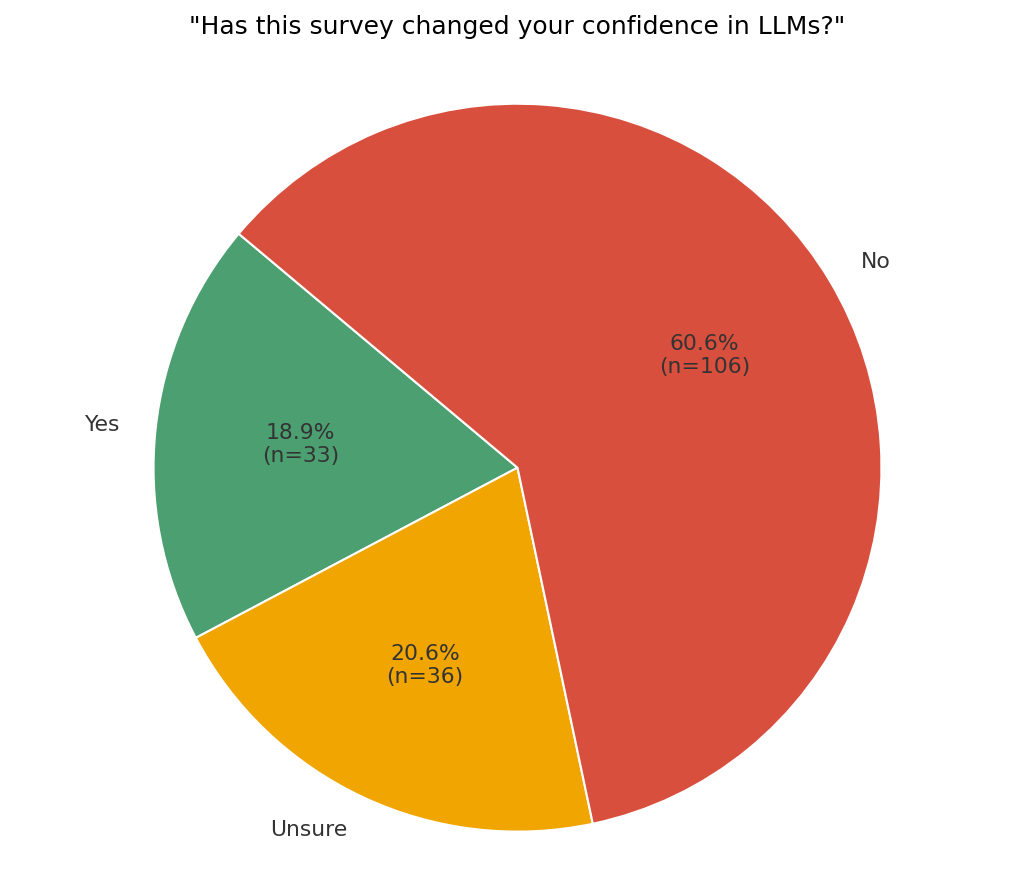
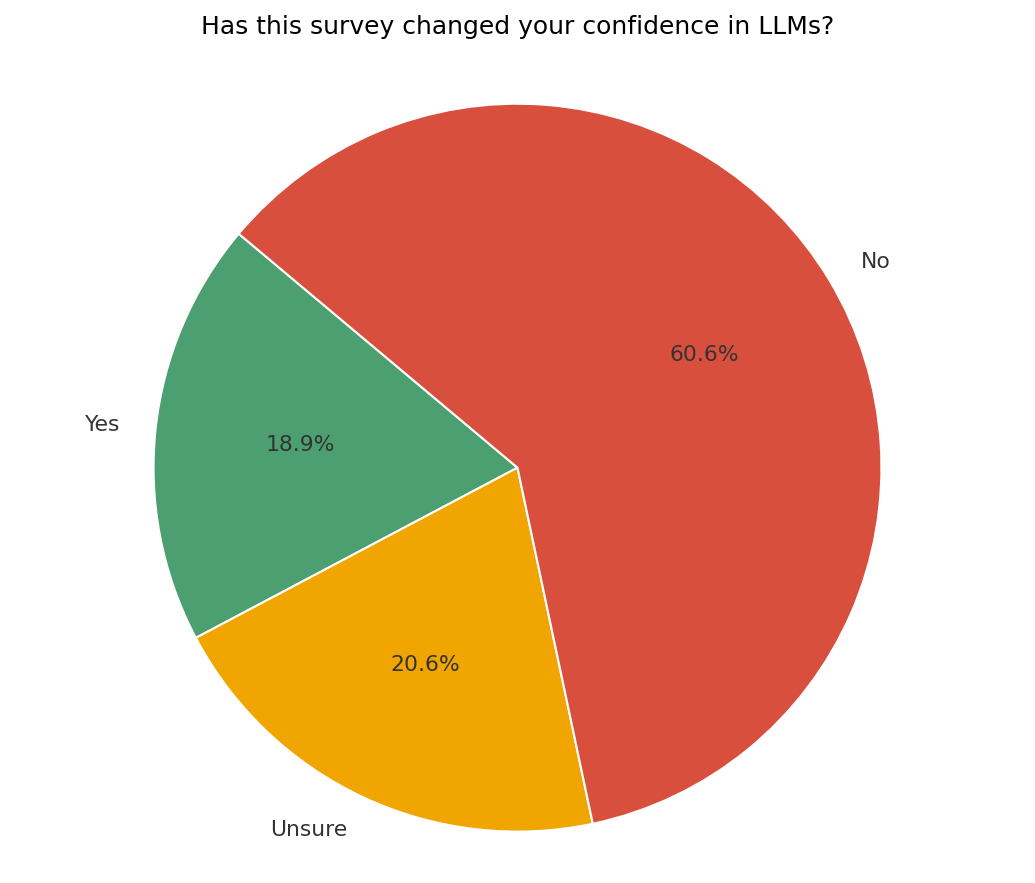
adjust trust-changed diagram

diff --git a/diagrams/trust_changed.py b/diagrams/trust_changed.py
@@ -47,14 +47,14 @@ wedges, texts, autotexts = ax.pie(
     counts,
     labels=order,
     colors=[colors[c] for c in order],
-    autopct=lambda pct: f"{pct:.1f}%\n(n={int(round(pct/100*n_valid))})",
+    autopct=lambda pct: f"{pct:.1f}%",
     startangle=140,
     wedgeprops={'edgecolor': 'white', 'linewidth': 1},
     textprops={'fontsize': 10.5, 'color': '#333333'}
 )
 
 ax.set_title(
-    "\"Has this survey changed your confidence in LLMs?\"",
+    "Has this survey changed your confidence in LLMs?",
     fontsize=12,
     pad=16
 )
